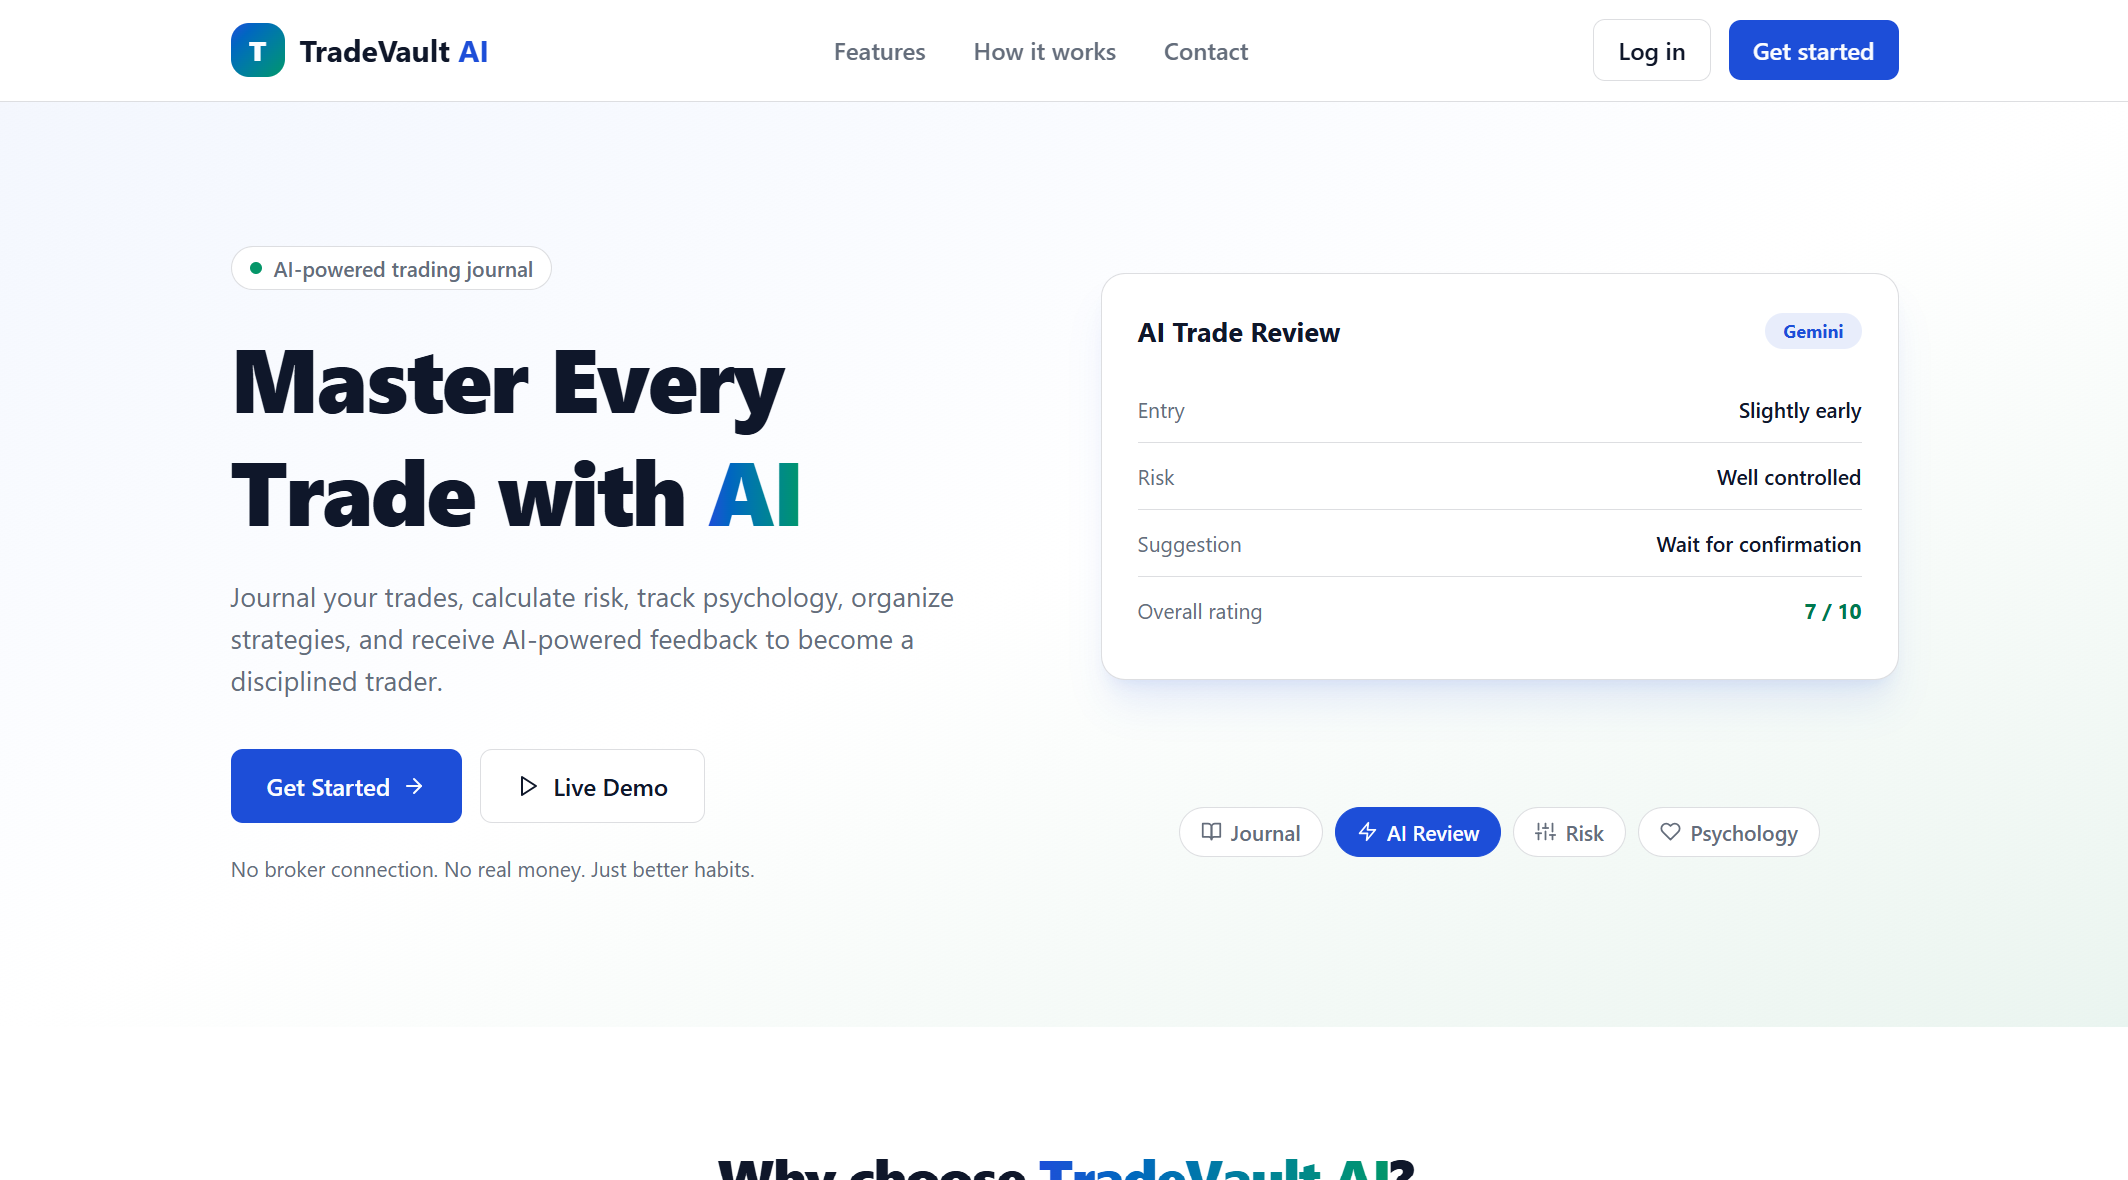
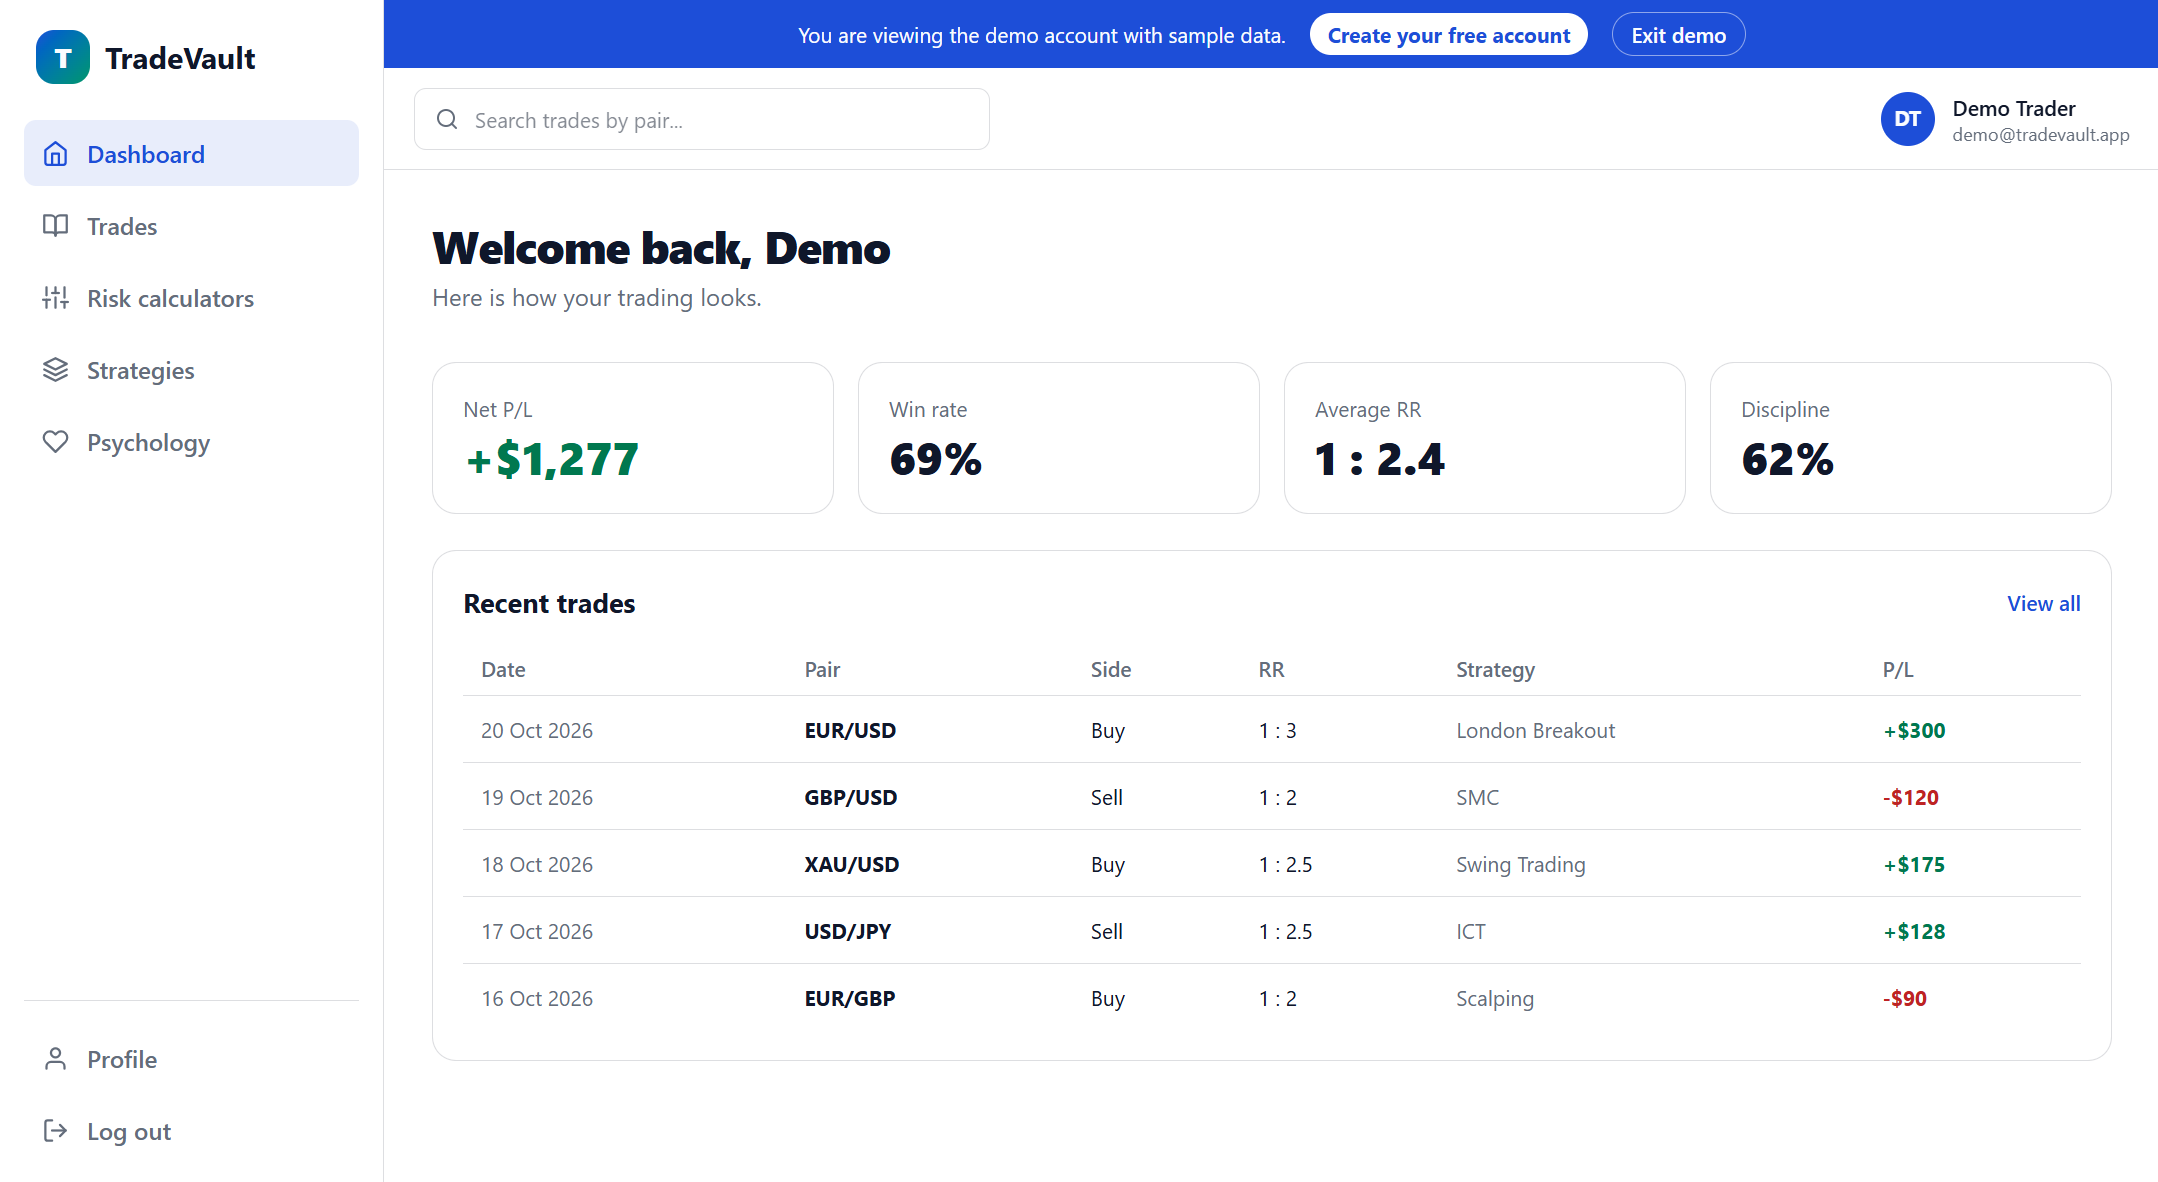
feat: fix screen shot

diff --git a/README.md b/README.md
@@ -39,13 +39,9 @@ TradeVault AI is the result. It is a **journal, not a trading platform**: it nev
 |---|---|
 | ![Dashboard](docs/screenshots/dashboard.png) | ![AI review](docs/screenshots/ai-review.png) |
 
-| Strategy | All Trades |
+| Risk calculators | Strategyy |
 |---|---|
-| ![Strategy](docs/screenshots/strategy.png) | ![All Trades](docs/screenshots/trades.png) |
-
-| Risk calculators | Psychology journal |
-|---|---|
-| ![Risk](docs/screenshots/risk.png) | ![Psychology](docs/screenshots/psychology.png) |
+| ![Risk](docs/screenshots/risk.png) | ![Strategy](docs/screenshots/strategy.png) |
 
 ## Engineering highlights
 
